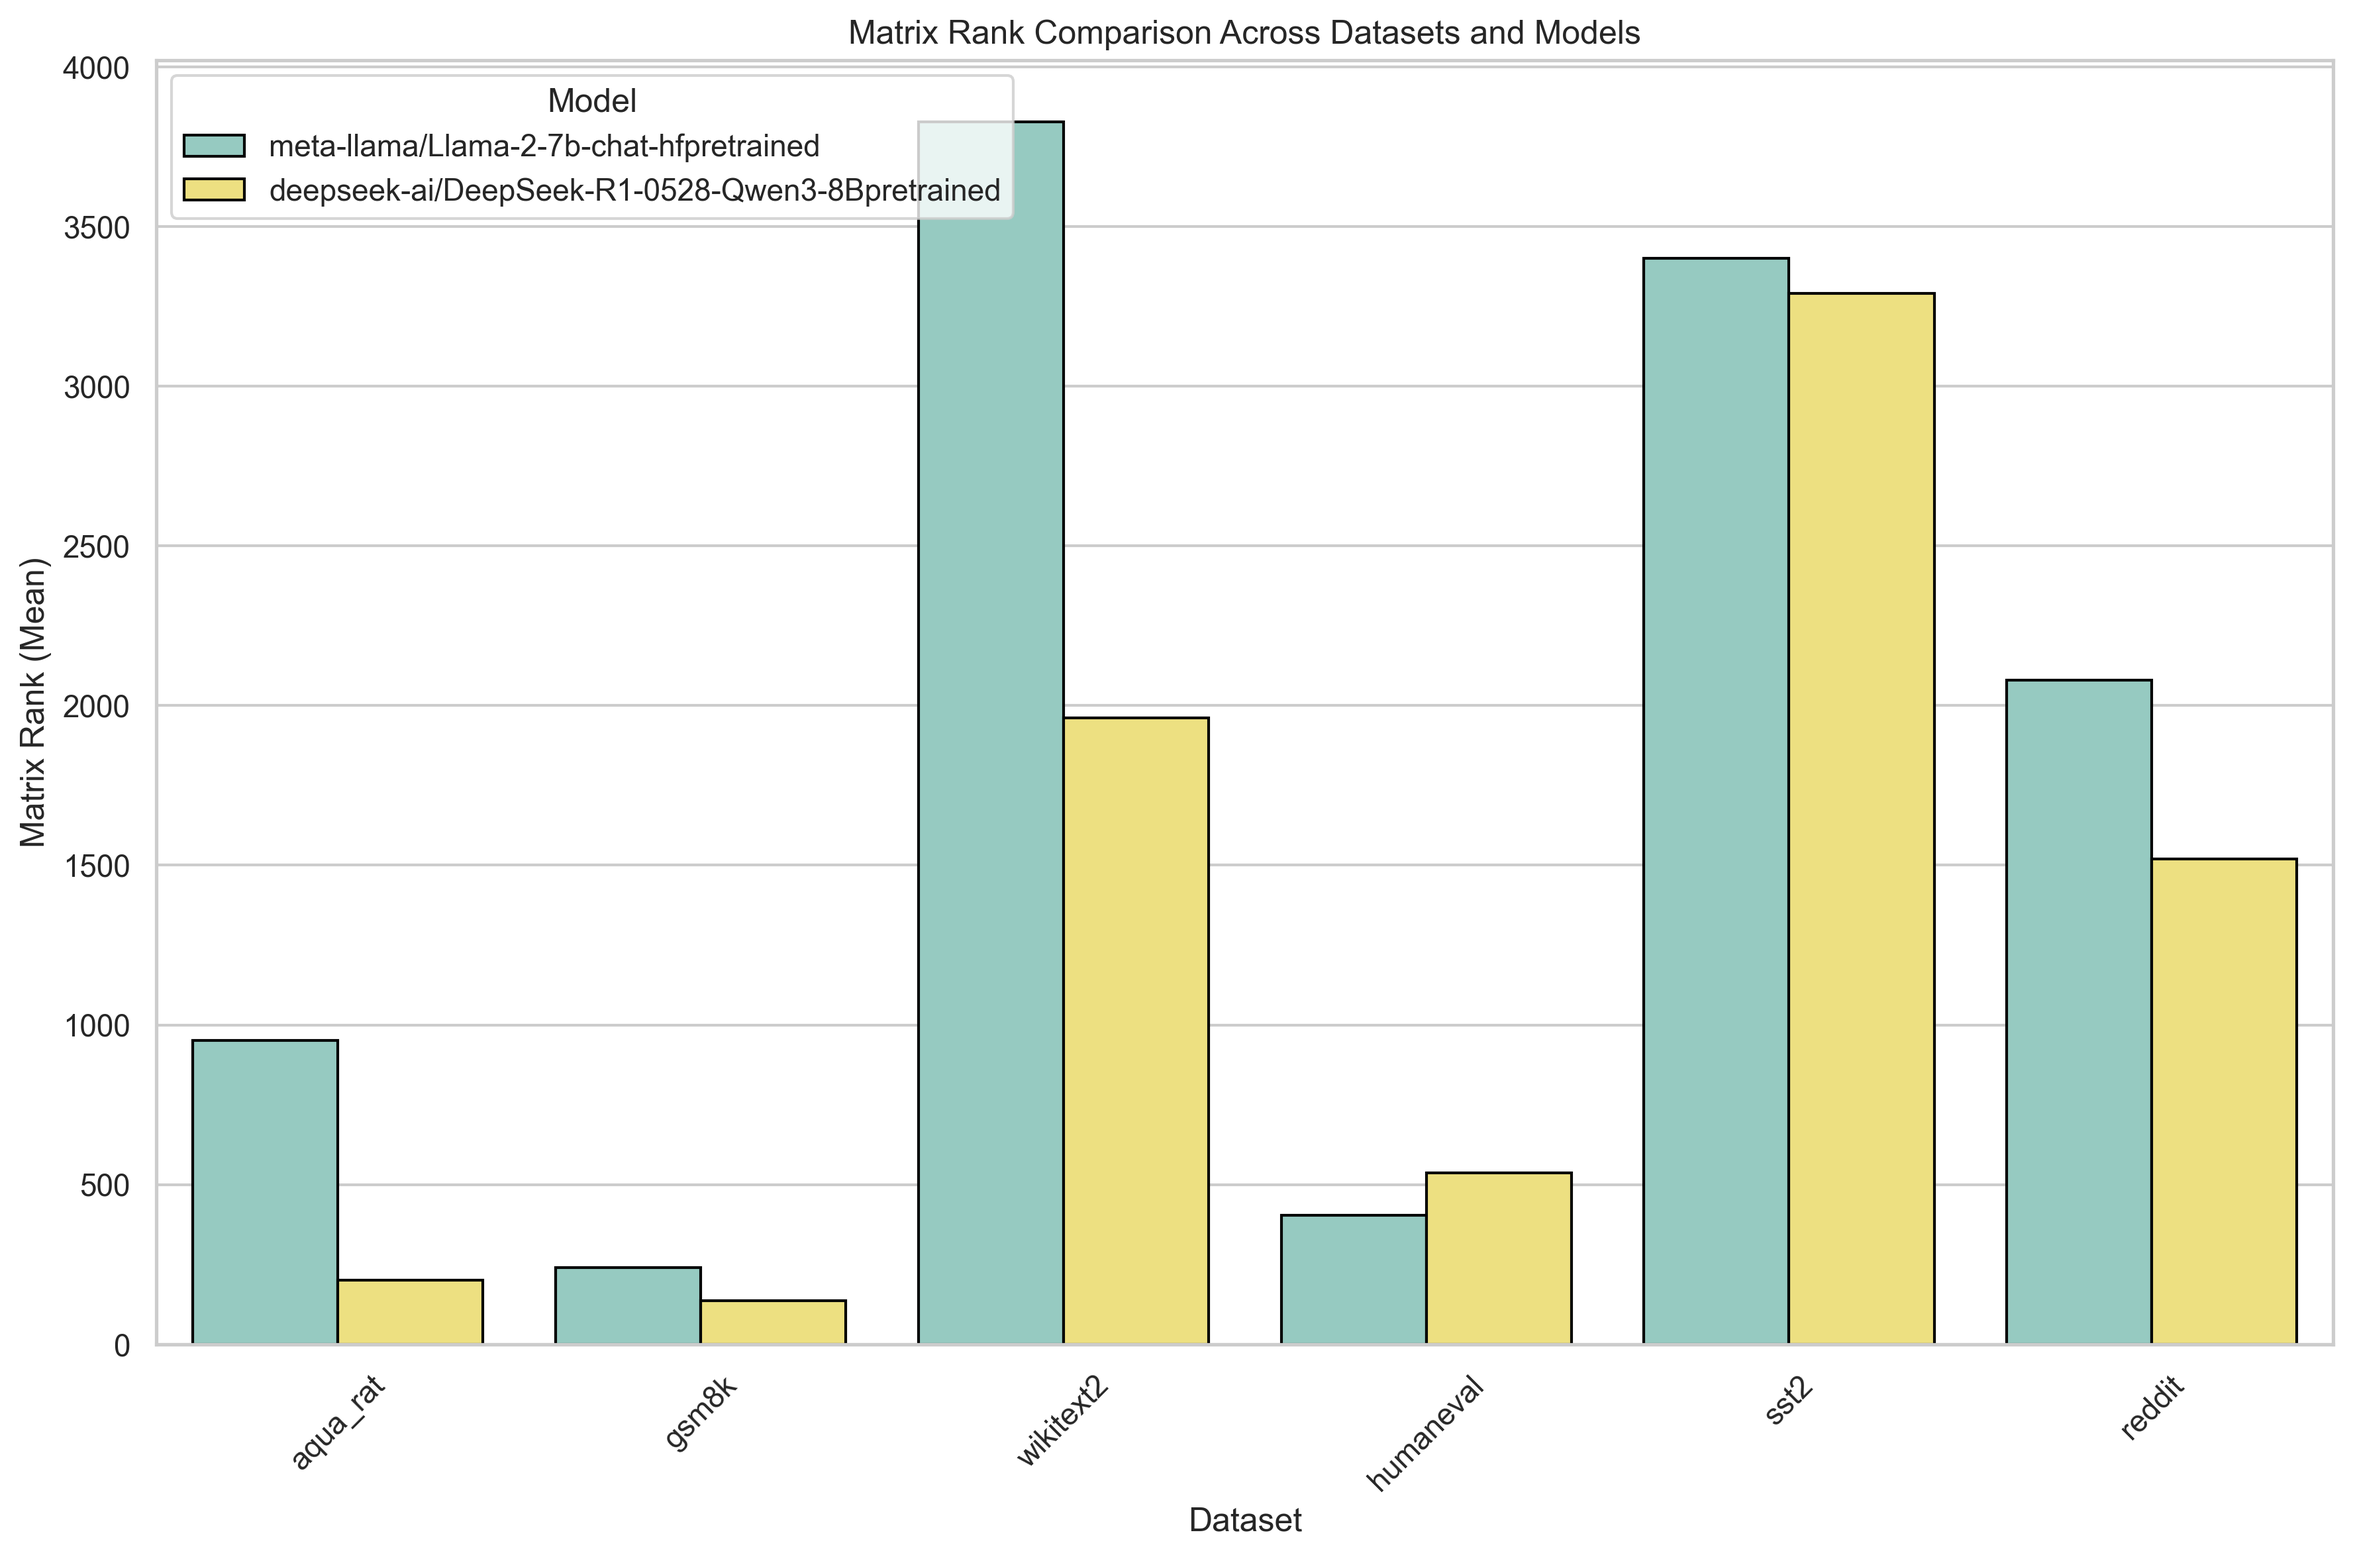
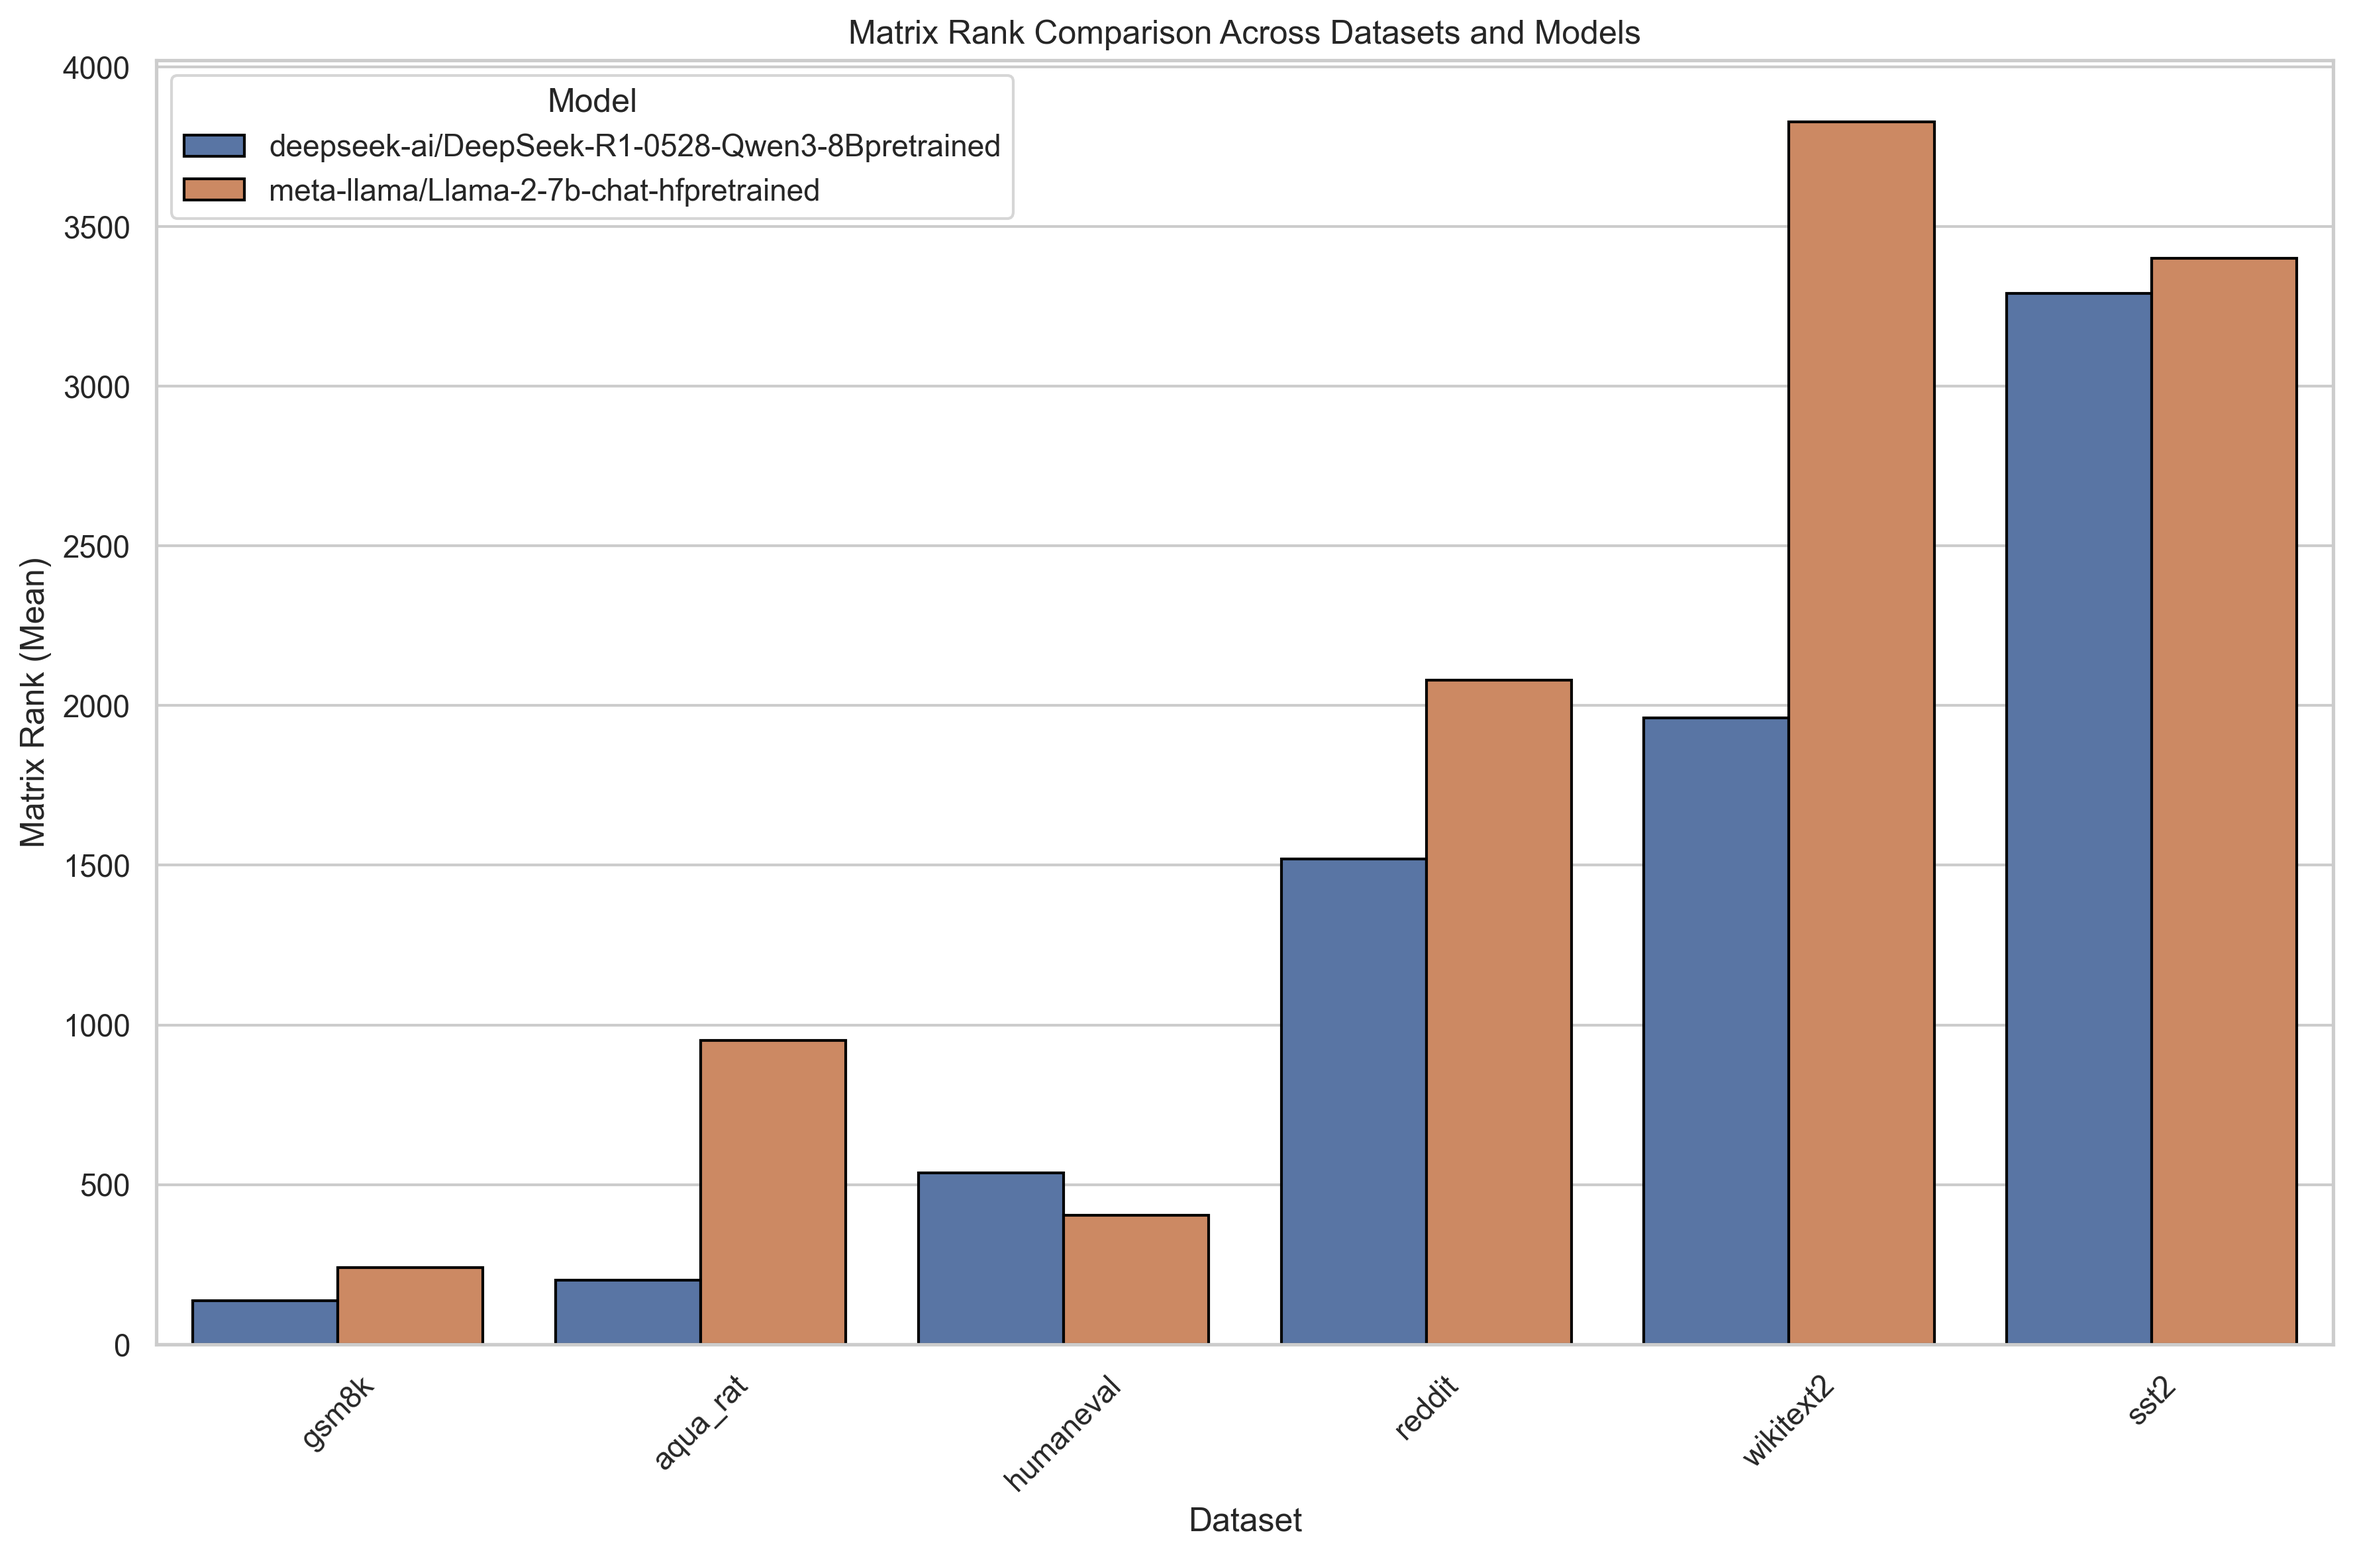
Update ds rank plot script

diff --git a/scripts/plot_model_dataset_joint_stats.py b/scripts/plot_model_dataset_joint_stats.py
@@ -59,6 +59,9 @@ def plot_dataset_rank(ckpt_paths: List[str], save_path=None):
 
     df = pd.DataFrame(data)
 
+    # sort by rank
+    df = df.sort_values(by="Rank", ascending=True)
+
     # Set seaborn style
     sns.set_theme(style="whitegrid")
 
@@ -76,7 +79,7 @@ def plot_dataset_rank(ckpt_paths: List[str], save_path=None):
         x="Category",
         y="Rank",
         hue="Model",
-        palette=color_map,
+        # palette=color_map,
         edgecolor="black",
     )
 
@@ -97,64 +100,58 @@ def get_model_name(ckpt_path: str):
     return "".join(ckpt_path.split("spectrum_progress_")[-1].split("_")[:-1])
 
 
-def plot_histograms(
-    # max_ys: Dict[str, List[torch.Tensor]],
-    # max_xs: Dict[str, List[torch.Tensor]],
-    # save_path=None,
-    ckpt_path: str,
-    save_path=None,
-):
-    """Plot histograms of max_ys and max_xs in a single figure with subplots for each category."""
+def plot_histograms(ckpt_path: str, save_path=None):
+    """Plot histograms using seaborn FacetGrid for cleaner visualization."""
 
     ckpt = torch.load(ckpt_path, weights_only=False)
-    max_ys = {k: v["max_ys"] for k, v in ckpt.items()}
-    max_xs = {k: v["max_xs"] for k, v in ckpt.items()}
 
-    categories = list(max_ys.keys())
-    n = len(categories)
-    ncols = min(3, n)
-    nrows = math.ceil(n / ncols)
-    fig, axes = plt.subplots(
-        nrows, ncols, figsize=(6 * ncols, 5 * nrows), squeeze=False
-    )
-    for idx, category in tqdm(
-        enumerate(categories), leave=False, desc="Creating histograms"
-    ):
-        row, col = divmod(idx, ncols)
-        ax = axes[row][col]
+    # Prepare data for seaborn
+    data = []
+    for category, stats in ckpt.items():
         ys = (
-            torch.cat(max_ys[category]).numpy()
-            if len(max_ys[category]) > 0
+            torch.cat(stats["max_ys"]).numpy()
+            if len(stats["max_ys"]) > 0
             else np.array([])
         )
         xs = (
-            torch.cat(max_xs[category]).numpy()
-            if len(max_xs[category]) > 0
+            torch.cat(stats["max_xs"]).numpy()
+            if len(stats["max_xs"]) > 0
             else np.array([])
         )
         zs = np.concatenate([ys, xs])
-        # print(f"Max zs: {zs.max()} | Min zs: {zs.min()}")
+
         if len(zs) > 0:
-            sns.histplot(
-                data=zs,
-                bins=10,
-                alpha=0.5,
-                label="Max Xs",
-                log_scale=True,
-                ax=ax,
-                # binrange=(10e-16, 10e-1),  # set range here
-            )
-        ax.set_title(category)
-        ax.set_xlim(10e-16, 10e-1)
-        ax.legend()
-    # Hide any unused subplots
-    for idx in range(n, nrows * ncols):
-        row, col = divmod(idx, ncols)
-        fig.delaxes(axes[row][col])
+            ranks = [
+                matrix_rank_from_spectrum(stats["spectra"][i])
+                for i in range(len(stats["spectra"]))
+            ]
+            mu_rank = torch.mean(torch.tensor(ranks, dtype=torch.float32)).item()
+            for value in zs:
+                data.append({"Category": category, "Value": value, "Rank": mu_rank})
+
+    if not data:
+        print("No data to plot")
+        return
+
+    df = pd.DataFrame(data)
+    df = df.sort_values(by="Rank", ascending=True)
+
+    # Create seaborn FacetGrid with percentage y-axis
+    g = sns.FacetGrid(df, col="Category", col_wrap=3, height=4, aspect=1.2)
+    g.map_dataframe(sns.histplot, x="Value", bins=50, log_scale=True, stat="percent")
+    g.set_titles(col_template="{col_name}")
+    g.set_xlabels("Value")
+    g.set_ylabels("Percentage")
+
+    # Set consistent x-axis limits
+    g.set(xlim=(1e-16, 1e-1))
+
     plt.tight_layout()
+
     if save_path:
         os.makedirs(os.path.dirname(save_path), exist_ok=True)
         plt.savefig(save_path, dpi=300, bbox_inches="tight")
+        print(f"Saved histogram to {save_path}")
 
 
 def main():
